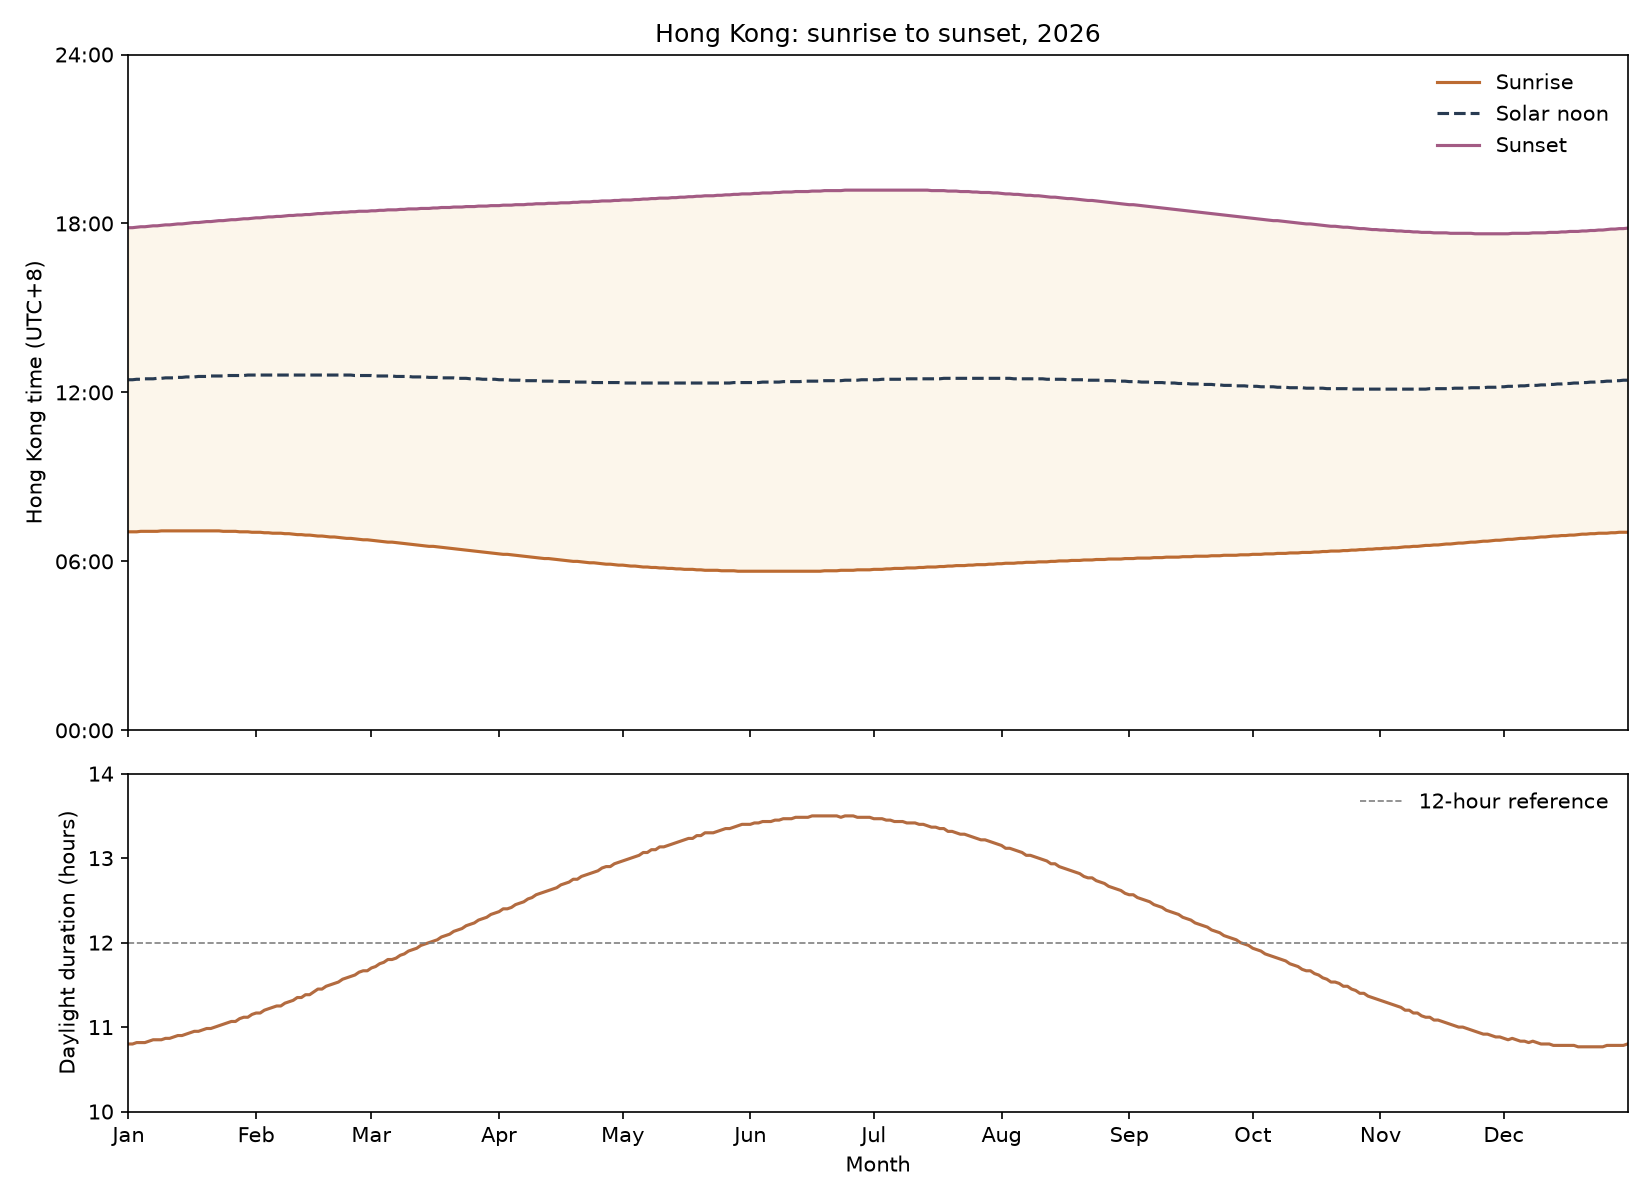
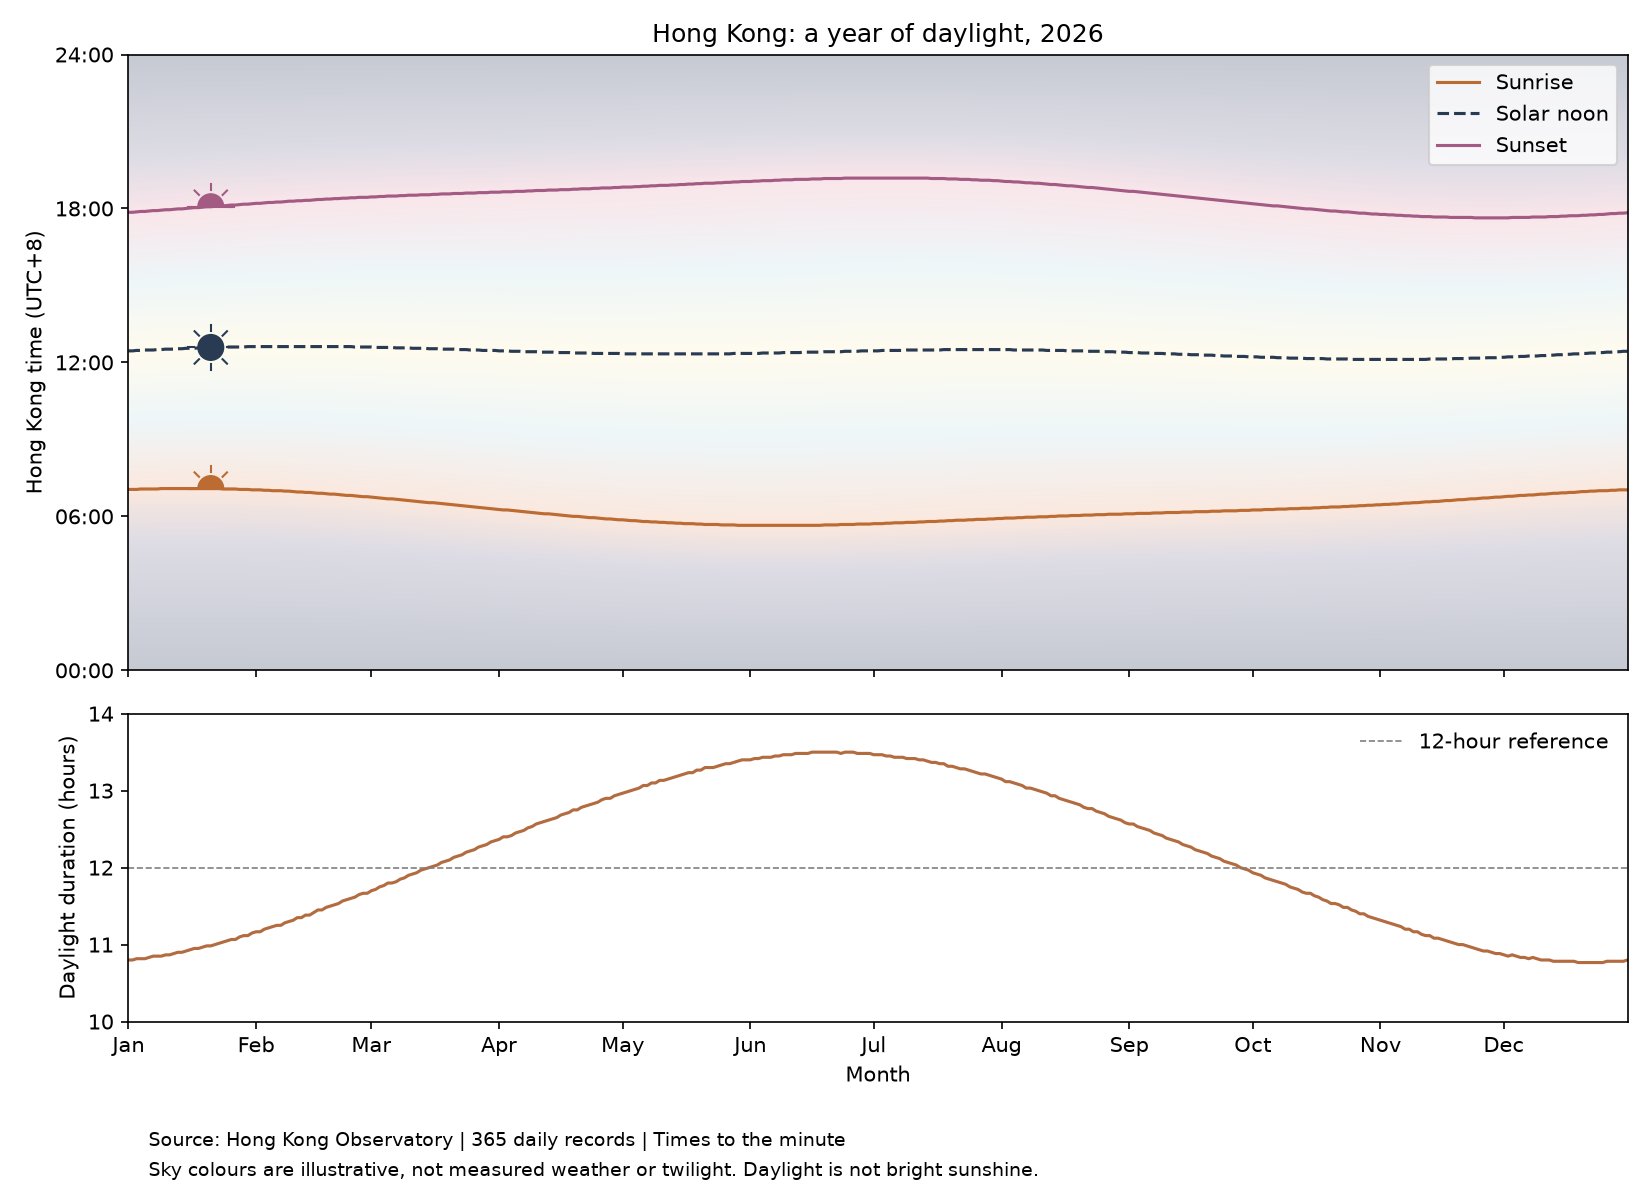
Improve the chart's appearance

diff --git a/plot.py b/plot.py
@@ -1,121 +1,128 @@
 # /// script
 # requires-python = ">=3.10"
-# dependencies = ["matplotlib"]
+# dependencies = ["matplotlib", "numpy"]
 # ///
 
 import csv
-from datetime import date
+from datetime import date, timedelta
 from pathlib import Path
 
 import matplotlib
 matplotlib.use("Agg")
-
 import matplotlib.dates as mdates
 import matplotlib.pyplot as plt
+from matplotlib.colors import to_rgb
+from matplotlib.offsetbox import AnnotationBbox, DrawingArea
+from matplotlib.patches import Circle, Wedge
+import numpy as np
 
 from inspect_data import to_minutes
 
 HERE = Path(__file__).resolve().parent
 DATA = HERE / "data" / "hko-sunrise-sunset-2026.csv"
 OUT = HERE / "out" / "daylight-2026.png"
-
-BAND_ALPHA = 0.25
+SKY_ALPHA = 0.25
 
 
 def load_solar_times():
-    """读取每日太阳时刻，并换算成小时。"""
-    days = []
-    sunrises = []
-    noons = []
-    sunsets = []
-
+    days, times = [], []
     with DATA.open(encoding="utf-8-sig", newline="") as file:
         for row in csv.DictReader(file):
             day = date.fromisoformat(row["YYYY-MM-DD"])
-            sunrise = to_minutes(row["RISE"])
+            rise = to_minutes(row["RISE"])
             noon = to_minutes(row["TRAN."])
-            sunset = to_minutes(row["SET"])
-
-            if not sunrise < noon < sunset:
+            setting = to_minutes(row["SET"])
+            if not rise < noon < setting:
                 raise ValueError(f"Unexpected time order: {day}")
-
             days.append(day)
-            sunrises.append(sunrise / 60)
-            noons.append(noon / 60)
-            sunsets.append(sunset / 60)
+            times.append([rise, noon, setting])
+    expected = [date(2026, 1, 1) + timedelta(days=i) for i in range(365)]
+    if days != expected:
+        raise ValueError("Expected all 365 dates of 2026 in order.")
+    return days, np.array(times) / 60
 
-    return days, sunrises, noons, sunsets
+
+def sky_image(times):
+    """Colours are illustrative; only solar-time anchors come from data."""
+    hours = np.linspace(0, 24, 721)
+    colours = np.array([to_rgb(c) for c in [
+        "#19294d", "#787398", "#efa47c", "#bcdde7", "#fff1bd",
+        "#bcdde7", "#e99aaa", "#787398", "#19294d",
+    ]])
+    pixels = np.empty((len(hours), len(times), 3))
+    for i, (rise, noon, setting) in enumerate(times):
+        stops = [0, rise * 0.7, rise, (rise + noon) / 2, noon,
+                 (noon + setting) / 2, setting,
+                 setting + (24 - setting) * 0.35, 24]
+        for channel in range(3):
+            pixels[:, i, channel] = np.interp(hours, stops, colours[:, channel])
+    return pixels
+
+
+def add_sun(ax, x, y, colour, half=False):
+    """Draw fixed-size sun symbols without image downloads or emoji fonts."""
+    icon = DrawingArea(26, 26, 0, 0)
+    if half:
+        icon.add_artist(Wedge((13, 11), 6, 0, 180, color=colour))
+        icon.add_artist(plt.Line2D([3, 23], [11, 11], color=colour, lw=1))
+        angles = np.linspace(0, np.pi, 5)
+    else:
+        icon.add_artist(Circle((13, 11), 6, color=colour))
+        angles = np.linspace(0, 2 * np.pi, 8, endpoint=False)
+    for angle in angles:
+        icon.add_artist(plt.Line2D(
+            [13 + 8 * np.cos(angle), 13 + 11 * np.cos(angle)],
+            [11 + 8 * np.sin(angle), 11 + 11 * np.sin(angle)],
+            color=colour, lw=1,
+        ))
+    ax.add_artist(AnnotationBbox(icon, (x, y), frameon=False,
+                                box_alignment=(0.5, 11 / 26)))
 
 
 def main():
-    days, sunrises, noons, sunsets = load_solar_times()
-
-    durations = [
-        sunset - sunrise
-        for sunrise, sunset in zip(sunrises, sunsets)
-    ]
-
+    days, times = load_solar_times()
+    sunrises, noons, sunsets = times.T
+    durations = sunsets - sunrises
+    x = mdates.date2num(days)
     fig, (upper, lower) = plt.subplots(
-        2,
-        1,
-        figsize=(11, 8),
-        sharex=True,
+        2, 1, figsize=(11, 8), sharex=True,
         gridspec_kw={"height_ratios": [2, 1]},
     )
-
-    # 上图：太阳时刻与白昼色带。
-    upper.fill_between(
-        days,
-        sunrises,
-        sunsets,
-        color="#f4ddb1",
-        alpha=BAND_ALPHA,
+    upper.imshow(
+        sky_image(times), origin="lower", aspect="auto",
+        extent=[x[0] - 0.5, x[-1] + 0.5, 0, 24],
+        interpolation="nearest", alpha=SKY_ALPHA,
     )
-
-    upper.plot(
-        days, sunrises,
-        label="Sunrise", color="#bc6b32",
-    )
-    upper.plot(
-        days, noons,
-        label="Solar noon", color="#283b52", linestyle="--",
-    )
-    upper.plot(
-        days, sunsets,
-        label="Sunset", color="#a35b84",
-    )
-
-    upper.set_title("Hong Kong: sunrise to sunset, 2026")
+    for values, label, colour, style, half in [
+        (sunrises, "Sunrise", "#bc6b32", "-", True),
+        (noons, "Solar noon", "#283b52", "--", False),
+        (sunsets, "Sunset", "#a35b84", "-", True),
+    ]:
+        upper.plot(days, values, label=label, color=colour, linestyle=style)
+        add_sun(upper, x[20], values[20], colour, half)
+    upper.set_title("Hong Kong: a year of daylight, 2026")
     upper.set_ylabel("Hong Kong time (UTC+8)")
     upper.set_ylim(0, 24)
-    upper.set_yticks(
-        [0, 6, 12, 18, 24],
-        ["00:00", "06:00", "12:00", "18:00", "24:00"],
-    )
-    upper.legend(loc="upper right", frameon=False)
-
-    # 下图：每日白昼长度。
+    upper.set_yticks([0, 6, 12, 18, 24],
+                    ["00:00", "06:00", "12:00", "18:00", "24:00"])
+    upper.legend(loc="upper right", frameon=True, facecolor="white")
     lower.plot(days, durations, color="#b36b40")
-    lower.axhline(
-        12, color="gray", linestyle="--",
-        linewidth=0.8, label="12-hour reference",
-    )
-
+    lower.axhline(12, color="gray", linestyle="--", linewidth=0.8,
+                  label="12-hour reference")
     lower.set_ylabel("Daylight duration (hours)")
     lower.set_xlabel("Month")
     lower.set_ylim(10, 14)
     lower.set_yticks([10, 11, 12, 13, 14])
     lower.set_xlim(days[0], days[-1])
     lower.legend(frameon=False)
-
     lower.xaxis.set_major_locator(mdates.MonthLocator())
     lower.xaxis.set_major_formatter(mdates.DateFormatter("%b"))
-
-    fig.tight_layout()
+    fig.tight_layout(rect=(0, 0.075, 1, 1))
+    fig.text(0.09, 0.045, "Source: Hong Kong Observatory | 365 daily records | Times to the minute", fontsize=9)
+    fig.text(0.09, 0.02, "Sky colours are illustrative, not measured weather or twilight. Daylight is not bright sunshine.", fontsize=9)
     OUT.parent.mkdir(exist_ok=True)
     fig.savefig(OUT, dpi=150)
     plt.close(fig)
-
     print(f"Saved out/{OUT.name} using {len(days)} daily records.")
 
 

diff --git a/PROCESS.md b/PROCESS.md
@@ -43,7 +43,9 @@ The current chart shows how long daylight lasts each day, but does not show sunr
 
 Next, I plan to compare a solar-time panel with the daylight-duration curve and record which design choices I actually keep or reject, along with my reasons.
 
+
 # Daily Report
+
 
 ## 29 September 2026 — Data and the first chart
 
@@ -64,3 +66,15 @@ I ran the updated script and compared BAND_ALPHA values of 0.7 and 0.25. The hig
 Codex recommended 0.7 to emphasise the daylight band, but I preferred the lighter appearance of 0.25 and kept that version. This makes the filled area less prominent, which is a trade-off I accepted.
 
 The data and calculations were unchanged during the opacity comparison.
+
+## 1 October 2026 — Sky colours and sun icons
+
+Today, I wanted to improve the chart's appearance, so I discussed possible changes to the existing code with Codex. And with the help by Codex, I success created the new version with gradient and three sun icons to the solar-time panel to make the table clearer. I retained the daylight-duration curve below it and kept the opacity at 0.25, following my preference from the previous iteration.
+
+The gradient follows the daily sunrise, solar noon and sunset times. The colours and intermediate transitions are design choices, not weather measurements or calculated twilight boundaries.
+
+I compared different color to present the solar noon session. After viewing both versions, I chose to restore the earlier pale-gold version and regenerated the image. I preferred its warmer appearance while keeping the overall colours soft.
+
+During editing, I accidentally entered the colour value in the terminal. It was not a command; it shoulded be belong in plot.py. The final plotting run completed successfully.
+
+This iteration changed the presentation to help distinguish sunrise, solar noon and sunset. It did not change the original data or the calculation of daylight duration.

diff --git a/README.md b/README.md
@@ -27,15 +27,15 @@ The program converts sunrise and sunset to minutes, subtracts sunrise from sunse
 
 ## What the picture shows
 
-The upper panel shows daily sunrise, solar noon and sunset in Hong Kong time. The pale band between sunrise and sunset represents daylight, while the lower panel shows its duration in hours, ranging from 10 hours 46 minutes to 13 hours 30 minutes.
+The upper panel shows daily sunrise, solar noon and sunset in Hong Kong time, with an illustrative sky gradient following those times. The lower panel shows daylight duration, ranging from 10 hours 46 minutes to 13 hours 30 minutes.
 
-The figure now preserves the separate solar times, but it does not show cloud cover, actual bright sunshine or the effects of buildings and terrain on visibility.
+The colours do not represent measured sky conditions, sunshine intensity or calculated twilight boundaries, and the figure does not account for buildings or terrain blocking the Sun.
 
 ## Current stage
 
-The second version adds a solar-time panel above the daylight-duration curve. I compared band opacity values of 0.7 and 0.25 and chose the lighter version, 0.25.
+The third version adds sun icons and a soft sky gradient while retaining the two-panel layout. I kept the opacity at 0.25 and chose pale gold rather than pale blue around solar noon.
 
-The next iteration will explore sky colours and sun icons while keeping the data boundaries clear.
+The icons identify the three solar-time curves; their positions near the left side do not mark special dates. The next step is to review readability and verify that the project can be reproduced.
 
 ## Run it
 
